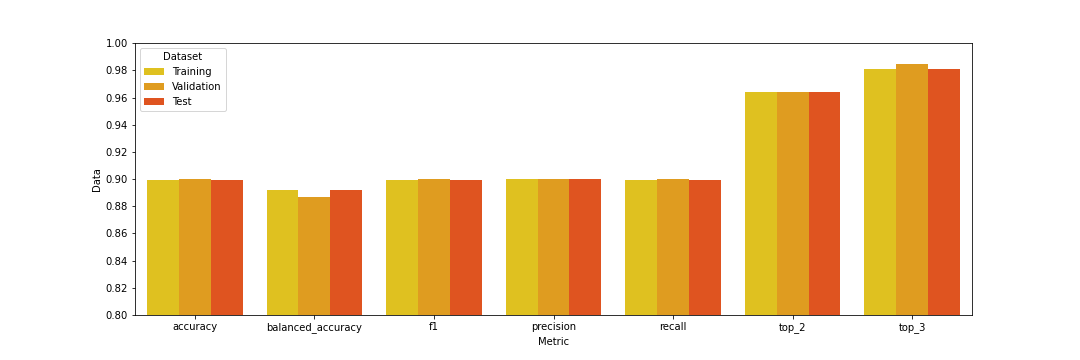
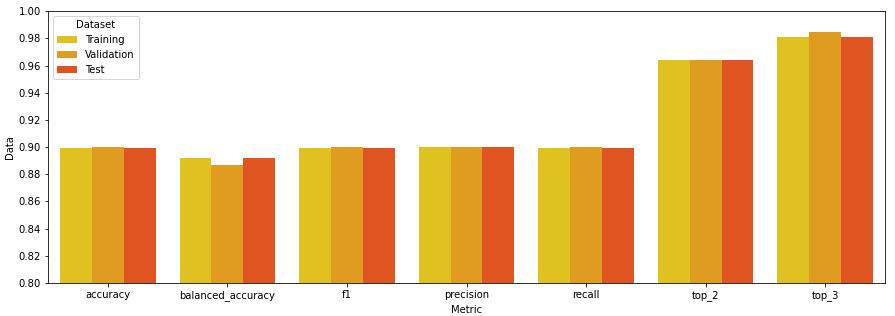
documentation extra figures

diff --git a/doc/doc.tex b/doc/doc.tex
@@ -39,10 +39,16 @@
 	
 	The datasets together hold about 23,000 images which we decided to split in 14:3:3 ratio into training, validation and test sets.\ref{dataset} On the training set we decided to employ data augmentation: using the keras ImageDatasetGenerator we added zooming and shifting as well as both vertical and horizontal flips and 90° rotation to account for the fact that these items could be seen in any orientation in a waste management scenario.
 	
-	\begin{figure}[htb]
+	\begin{figure}[h]
 		\centering
-		\resizebox{\linewidth}{!}{
-			\includegraphics{dataset.png}}
+		\includegraphics[width=\linewidth]{dataset_images.png}
+		\caption{Example images from the dataset.(From left to right: metal, paper, plastic, trash, cardboard, e-waste, glass, medical.)}
+		\label{dataset_images}
+	\end{figure}
+	
+	\begin{figure}[h]
+		\centering
+		\includegraphics[width=\linewidth]{dataset.png}
 		\caption{The size of the classes as divided into training, validation and test sets.}
 		\label{dataset}
 	\end{figure}
@@ -78,14 +84,14 @@
 		\resizebox{\linewidth}{!}{
 			\includegraphics{model1_metrics.png}}
 		\caption{The evaluated metrics on the first model.}
-		\label{dataset}
+		\label{model1_metrics}
 	\end{figure}
 	\begin{figure}
 		\centering
 		\resizebox{\linewidth}{!}{
 			\includegraphics{model3_metrics.png}}
 		\caption{The evaluated metrics on the third model.}
-		\label{dataset}
+		\label{model3_metrics}
 	\end{figure}
 	
 	\section{Discussion}
